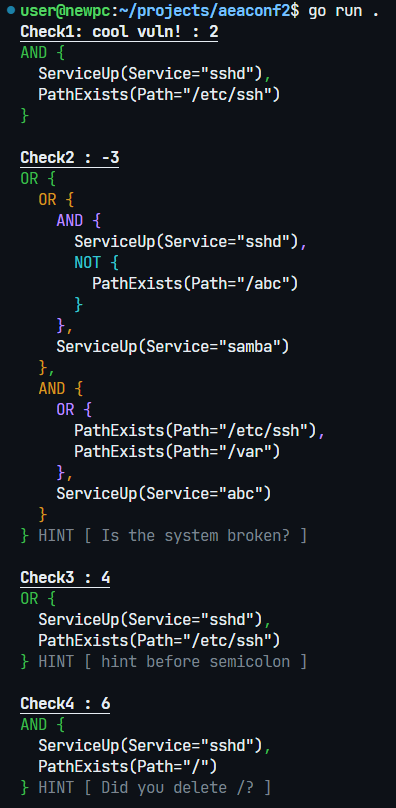
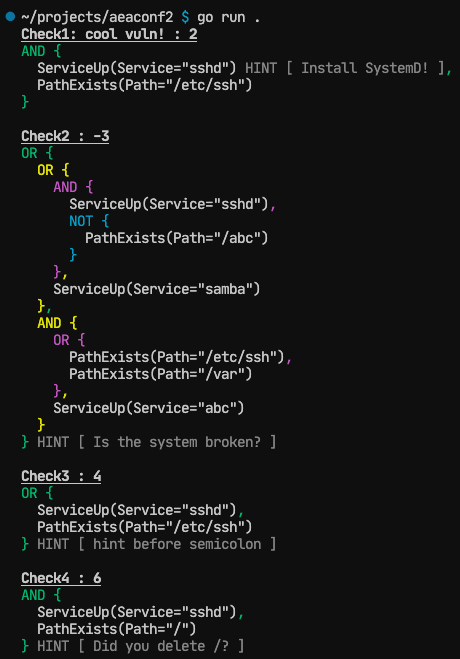
fix per-check hint display

diff --git a/logger.go b/logger.go
@@ -32,10 +32,6 @@ func DebugCondition(cond Condition) string {
 	return DebugCondition1(cond, 0)
 }
 
-func indentWrap(str string, indentStr string) string {
-	return indentStr + str + indentStr + "}"
-}
-
 var colorArray []color.Attribute = []color.Attribute{color.FgGreen, color.FgYellow, color.FgMagenta, color.FgCyan}
 
 func formatHint(hint string) string {
@@ -93,6 +89,8 @@ func DebugCondition1(cond Condition, indentLevel int) string {
 			parts = append(parts, fmt.Sprintf("%s=\"%v\"", field.Name, value))
 		}
 
-		return fmt.Sprintf("%s%s(%s)", indent, ty.Name(), strings.Join(parts, ", "))
+		// BaseCondition is always field 0 (guaranteed)
+		hint := val.Field(0).FieldByName("Hint").String()
+		return fmt.Sprintf("%s%s(%s)%s", indent, ty.Name(), strings.Join(parts, ", "), formatHint(hint))
 	}
 }
